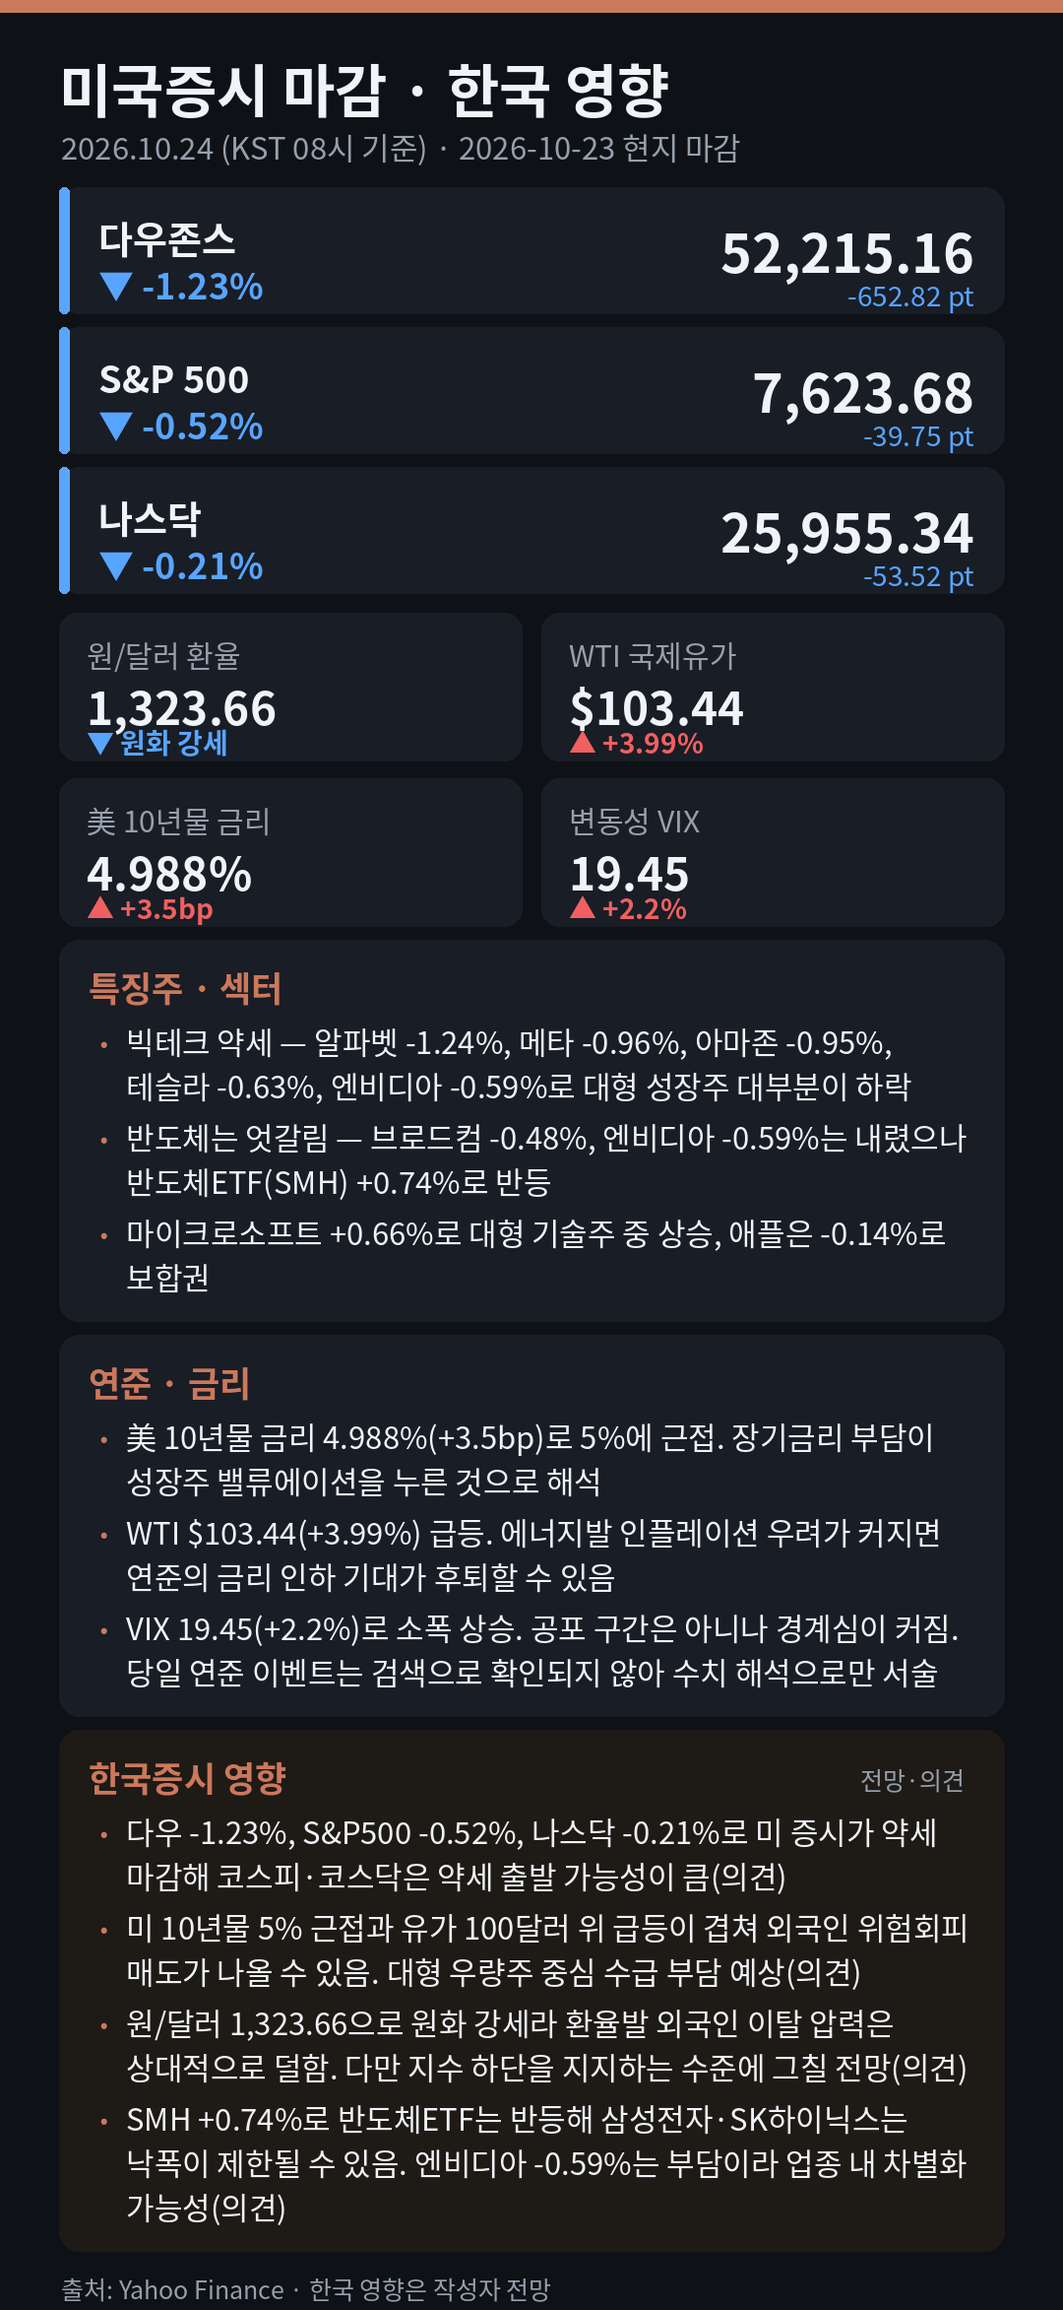
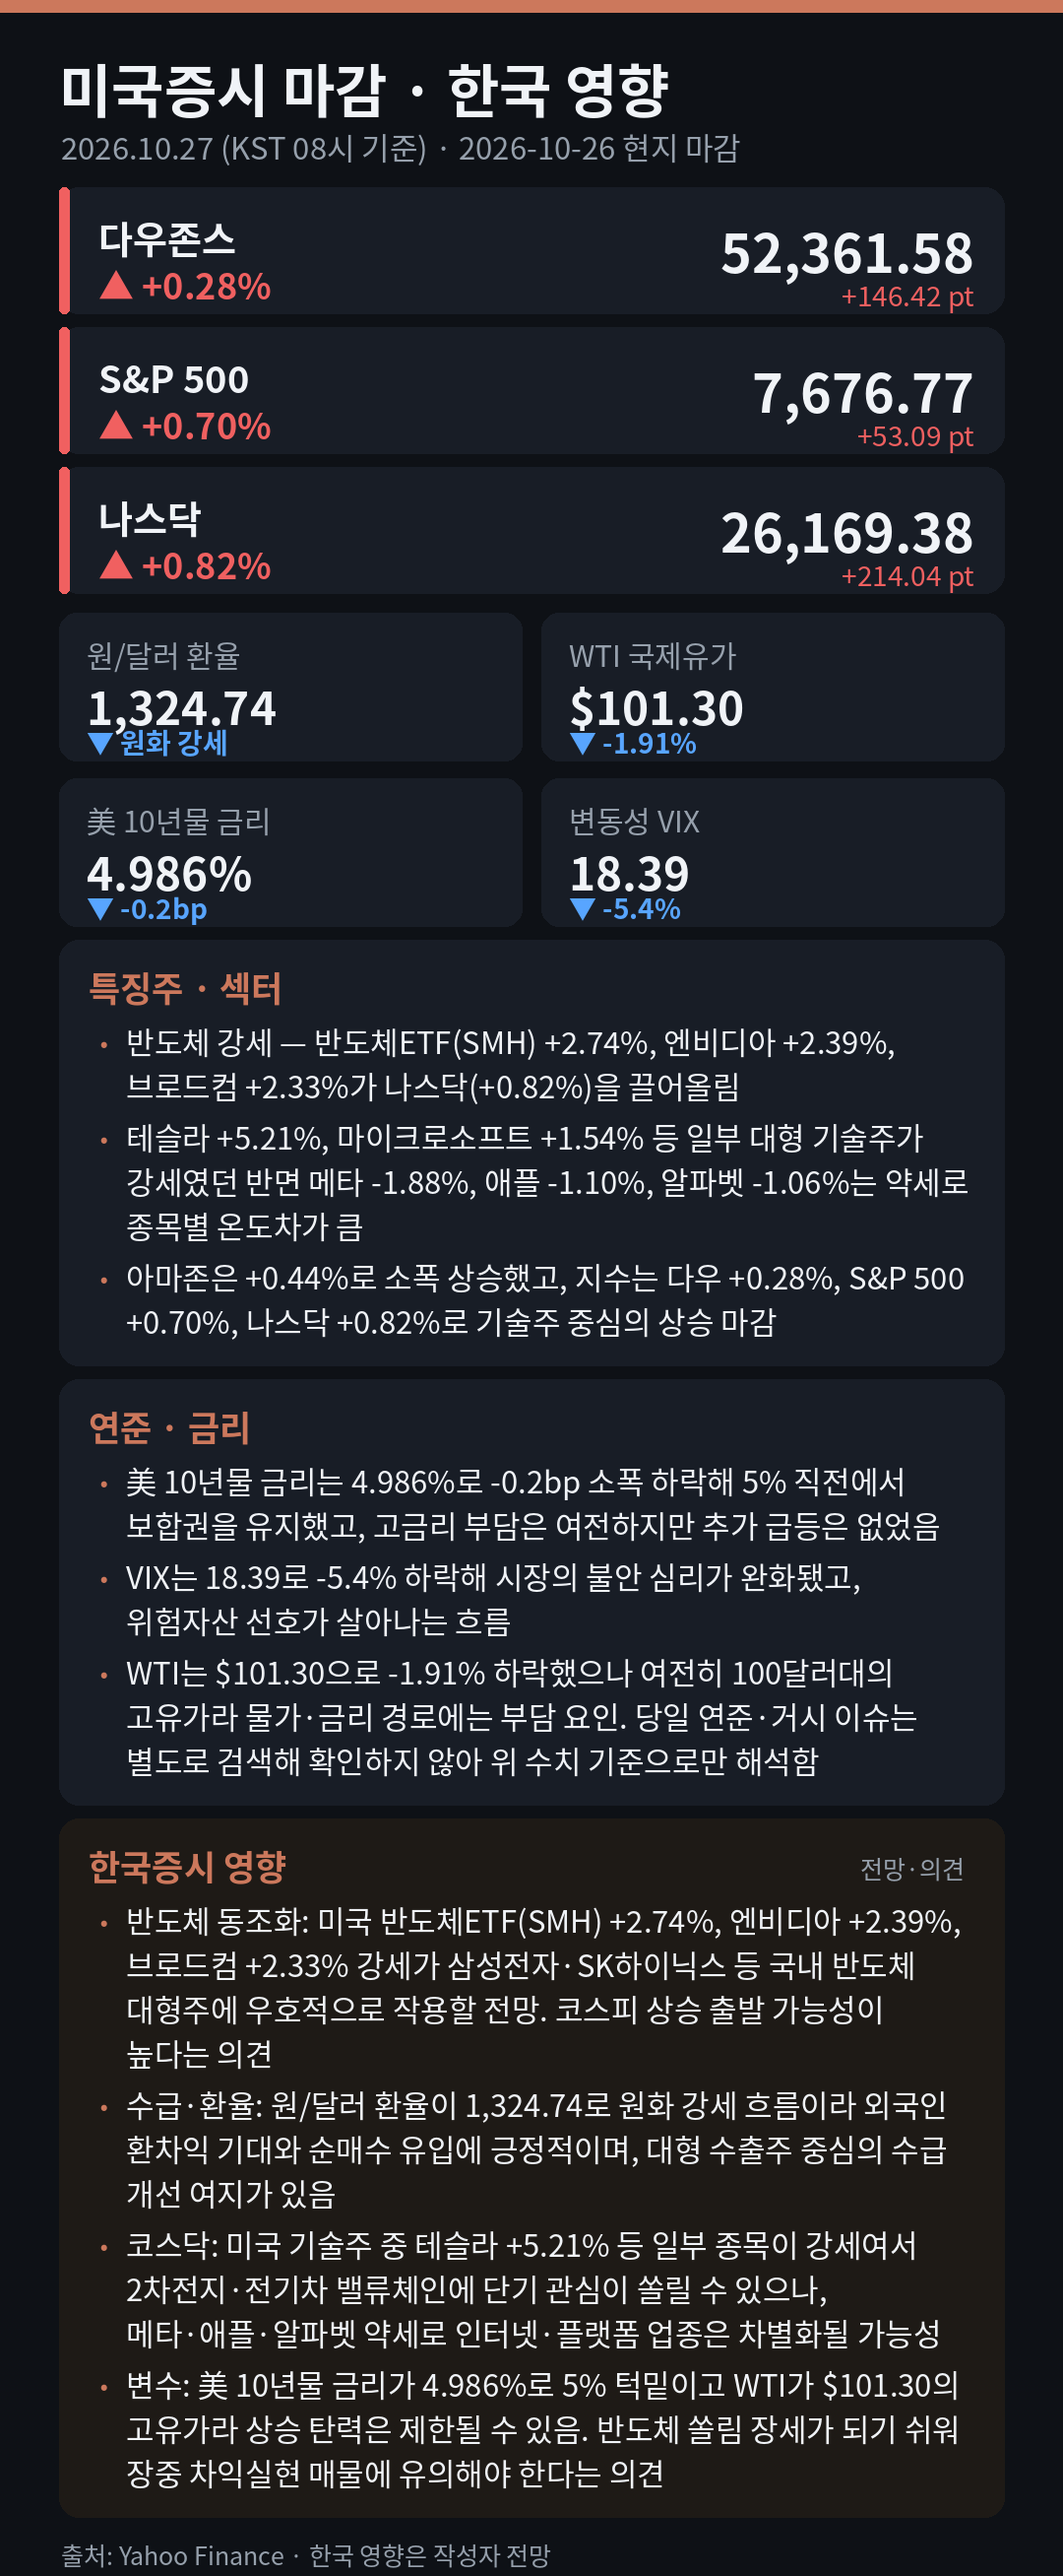
브리핑 2026-10-26 자동 발행

Changed region(s): [[0.0306, 0.0, 0.9167, 1.0], [0.4278, 0.0, 0.6417, 0.0623], [0.0611, 0.965, 0.0917, 0.9962]]

diff --git a/index.html b/index.html
@@ -14,8 +14,8 @@ a{color:#58a5ff;text-decoration:none} .s{color:#8a93a0;font-size:12px;float:righ
 </style></head><body><div class="wrap">
 <h1>미국증시 마감 브리핑</h1>
 <p class="sub">매일 아침(KST 08:02) 자동 업데이트 · 숫자는 Yahoo Finance 기준, 한국 영향은 전망</p>
-<img class="card" src="img/2026-10-23.png?v=2026-10-23" alt="2026-10-23 미국증시 마감"><p class="d">2026-10-23 현지 마감</p>
+<img class="card" src="img/2026-10-26.png?v=2026-10-26" alt="2026-10-26 미국증시 마감"><p class="d">2026-10-26 현지 마감</p>
 <h2>지난 브리핑</h2>
-<ul><li><a href="img/2026-10-23.png">2026-10-23</a> <span class="s">다우존스 -1.23% · S&P 500 -0.52% · 나스닥 -0.21%</span></li><li><a href="img/2026-10-22.png">2026-10-22</a> <span class="s">다우존스 +0.71% · S&P 500 -0.64% · 나스닥 -1.57%</span></li><li><a href="img/2026-10-21.png">2026-10-21</a> <span class="s">다우존스 +0.69% · S&P 500 +0.58% · 나스닥 +1.05%</span></li><li><a href="img/2026-10-20.png">2026-10-20</a> <span class="s">다우존스 +1.02% · S&P 500 +0.28% · 나스닥 -0.02%</span></li><li><a href="img/2026-10-19.png">2026-10-19</a> <span class="s">다우존스 -0.07% · S&P 500 +0.41% · 나스닥 +1.11%</span></li><li><a href="img/2026-10-16.png">2026-10-16</a> <span class="s">다우존스 -0.34% · S&P 500 -1.09% · 나스닥 -2.15%</span></li><li><a href="img/2026-10-15.png">2026-10-15</a> <span class="s">다우존스 +1.08% · S&P 500 +0.33% · 나스닥 +0.08%</span></li><li><a href="img/2026-10-14.png">2026-10-14</a> <span class="s">다우존스 -0.09% · S&P 500 -1.11% · 나스닥 -1.88%</span></li><li><a href="img/2026-10-13.png">2026-10-13</a> <span class="s">다우존스 -0.35% · S&P 500 -0.02% · 나스닥 -0.15%</span></li><li><a href="img/2026-10-12.png">2026-10-12</a> <span class="s">다우존스 +0.38% · S&P 500 -0.06% · 나스닥 -0.44%</span></li><li><a href="img/2026-10-09.png">2026-10-09</a> <span class="s">다우존스 +0.83% · S&P 500 +0.59% · 나스닥 +0.64%</span></li></ul>
+<ul><li><a href="img/2026-10-26.png">2026-10-26</a> <span class="s">다우존스 +0.28% · S&P 500 +0.70% · 나스닥 +0.82%</span></li><li><a href="img/2026-10-23.png">2026-10-23</a> <span class="s">다우존스 -1.23% · S&P 500 -0.52% · 나스닥 -0.21%</span></li><li><a href="img/2026-10-22.png">2026-10-22</a> <span class="s">다우존스 +0.71% · S&P 500 -0.64% · 나스닥 -1.57%</span></li><li><a href="img/2026-10-21.png">2026-10-21</a> <span class="s">다우존스 +0.69% · S&P 500 +0.58% · 나스닥 +1.05%</span></li><li><a href="img/2026-10-20.png">2026-10-20</a> <span class="s">다우존스 +1.02% · S&P 500 +0.28% · 나스닥 -0.02%</span></li><li><a href="img/2026-10-19.png">2026-10-19</a> <span class="s">다우존스 -0.07% · S&P 500 +0.41% · 나스닥 +1.11%</span></li><li><a href="img/2026-10-16.png">2026-10-16</a> <span class="s">다우존스 -0.34% · S&P 500 -1.09% · 나스닥 -2.15%</span></li><li><a href="img/2026-10-15.png">2026-10-15</a> <span class="s">다우존스 +1.08% · S&P 500 +0.33% · 나스닥 +0.08%</span></li><li><a href="img/2026-10-14.png">2026-10-14</a> <span class="s">다우존스 -0.09% · S&P 500 -1.11% · 나스닥 -1.88%</span></li><li><a href="img/2026-10-13.png">2026-10-13</a> <span class="s">다우존스 -0.35% · S&P 500 -0.02% · 나스닥 -0.15%</span></li><li><a href="img/2026-10-12.png">2026-10-12</a> <span class="s">다우존스 +0.38% · S&P 500 -0.06% · 나스닥 -0.44%</span></li></ul>
 <p class="foot">자동 생성 · Navis</p>
 </div></body></html>
